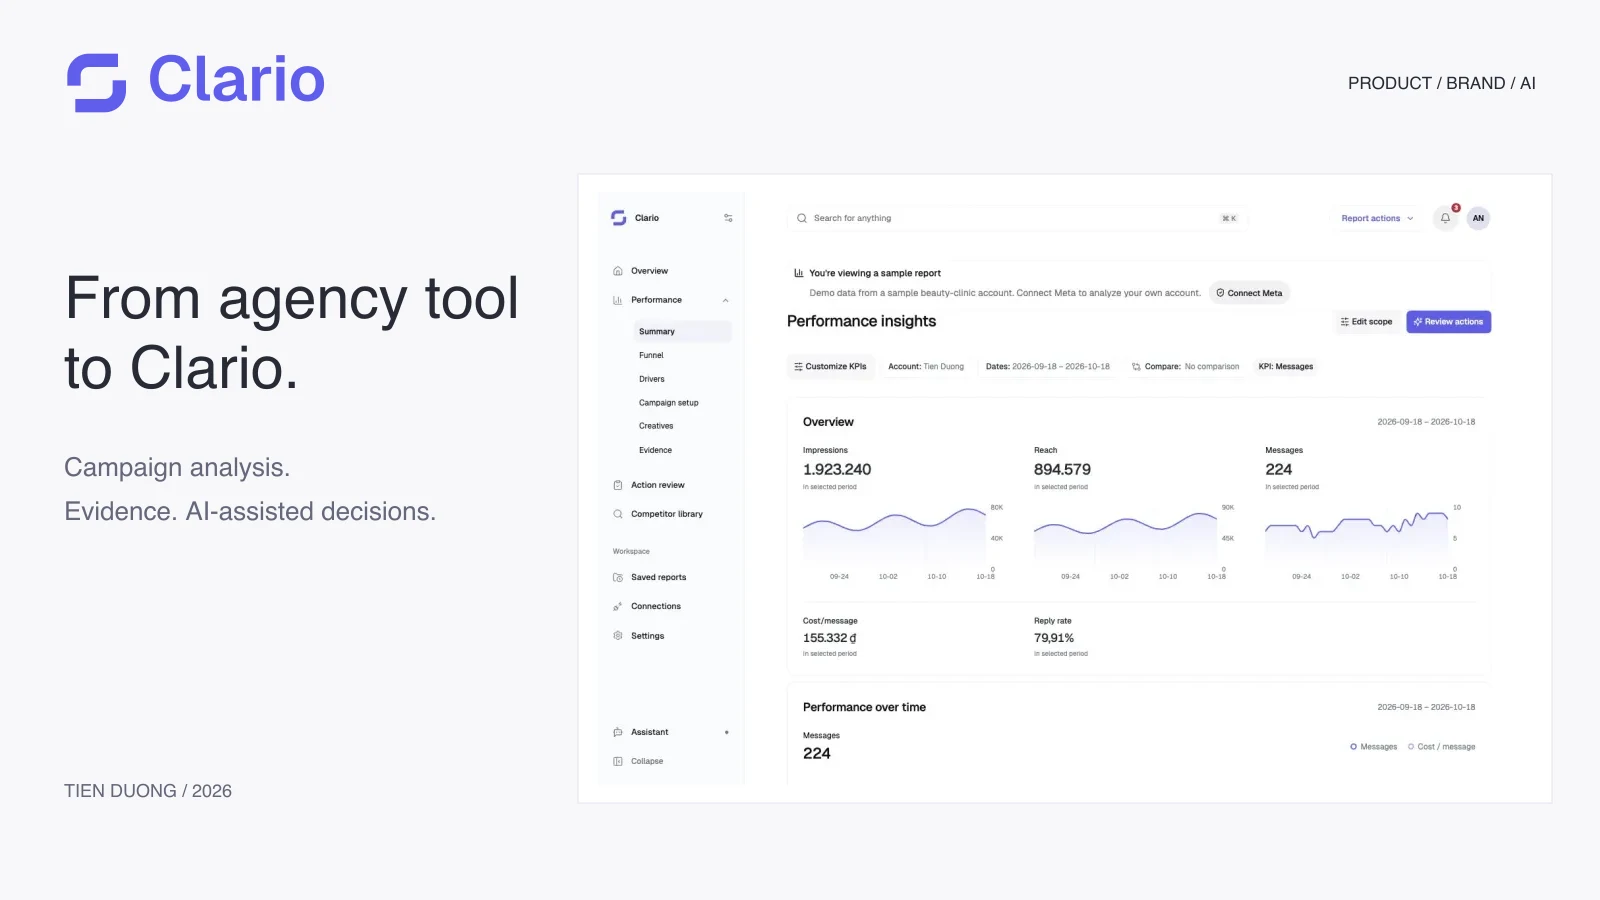
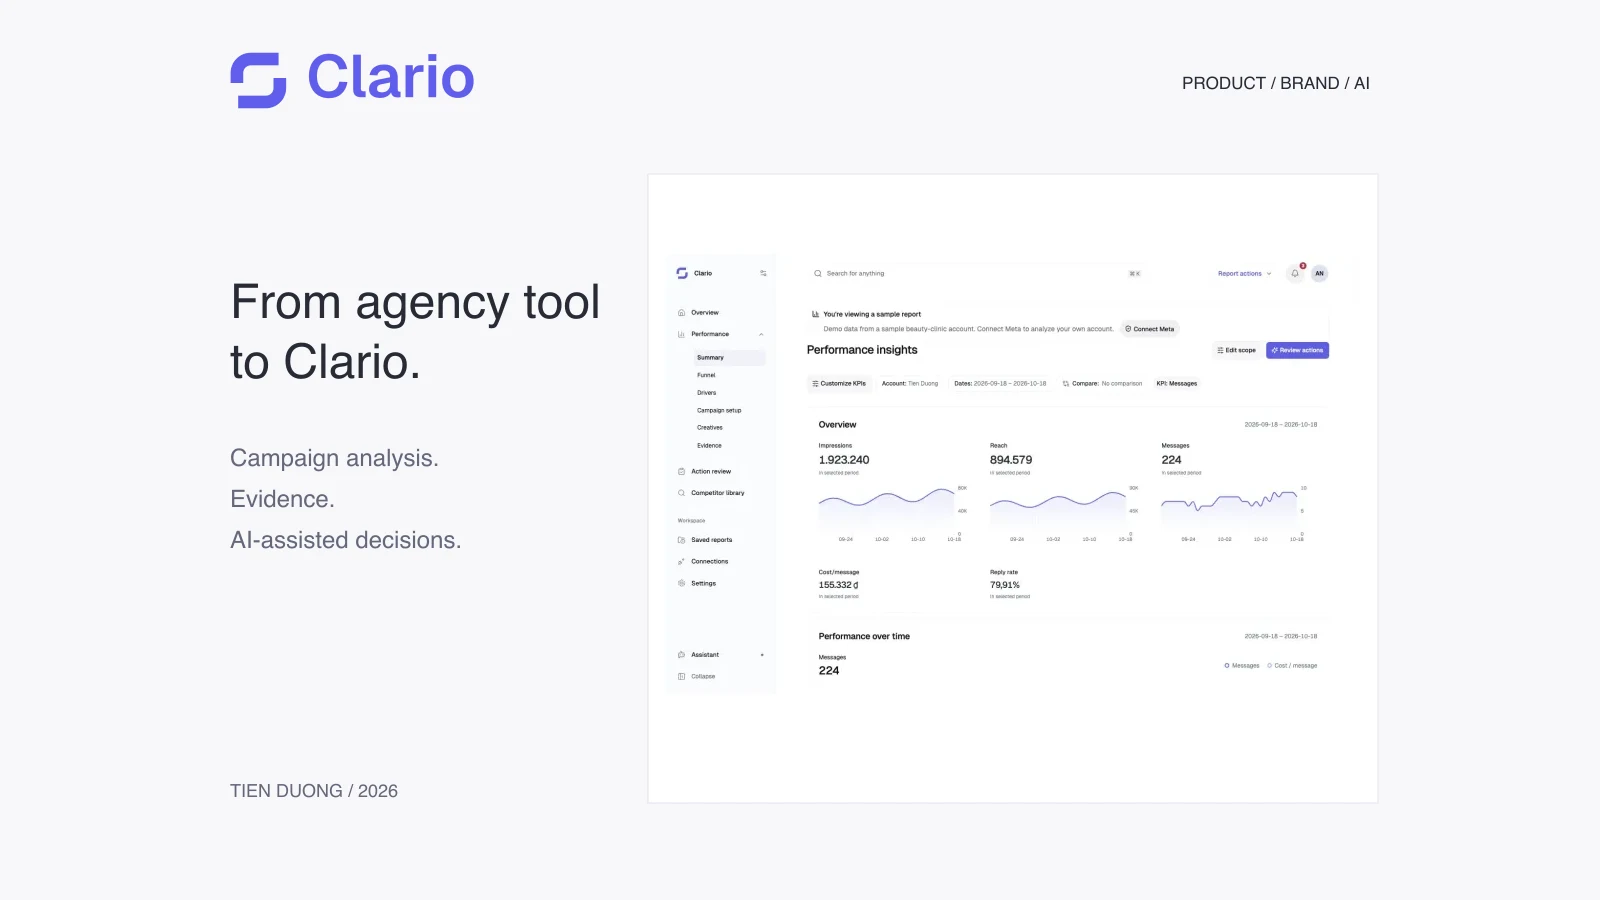
fix: keep Clario cover readable in the project preview

diff --git a/docs/clario-case-study.md b/docs/clario-case-study.md
@@ -30,4 +30,8 @@ The narrative describes current Overview, Performance and Competitor workflows. 
 
 - Existing portfolio-content, CMS-integration and scene-content tests: 8 passed, one test worker, 256 MB Node heap. Checks include actual Keystatic schema reads, all linked rich-text documents, media existence and homepage circle fallbacks.
 - JSON comparison against `d9e6695` verifies that other projects and other About content are unchanged.
-- No full local Next build or extra dev server under the machine's memory constraint. Production deployment and visual checks are recorded after publishing.
+- No full local Next build or extra dev server under the machine's memory constraint. Vercel completed the production build for `395501a` and deployment `7204216824` succeeded.
+- Live case-study checks at 1440 px and 390 px: the expected title, all 11 chapter headings and all 11 page images loaded; document width matched viewport width. Story links point to the current Clario landing page, public preview and identity assets.
+- Live About entry checked at both widths with the new copy and sample Performance screenshot. The Work archive preview displays the new title, metadata and artwork; its View Project link was clicked and opened `/work/redagencyads` successfully.
+- Visual checks covered the hero, identity board, AI explanation and practical marketing workflow. Mobile checks used reduced motion. The preview's 4:3 image crop exposed an artwork issue; the cover was recomposed inside that crop's safe area without changing shared layouts.
+- Browser console: no errors on the case study; two CSS preload warnings. Evidence remains local in `output/playwright/clario-case/`. Temporary browser sessions were closed after QA.
